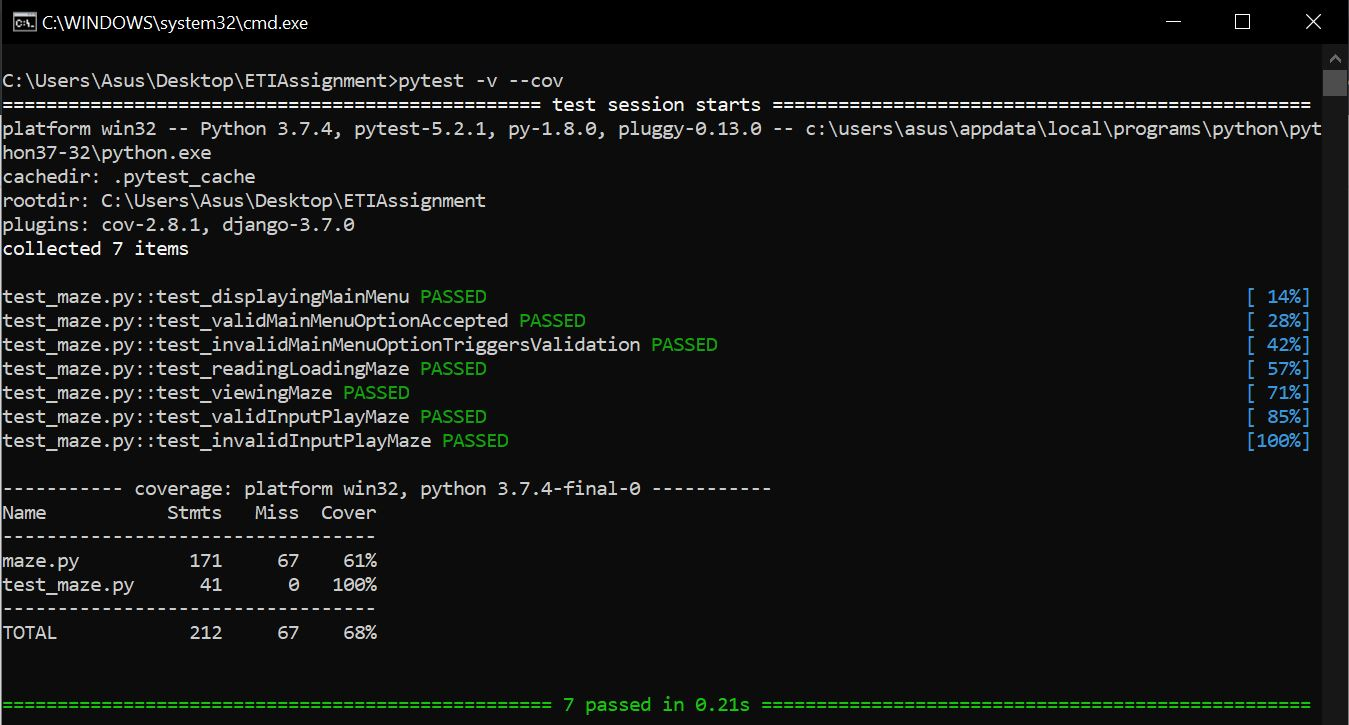
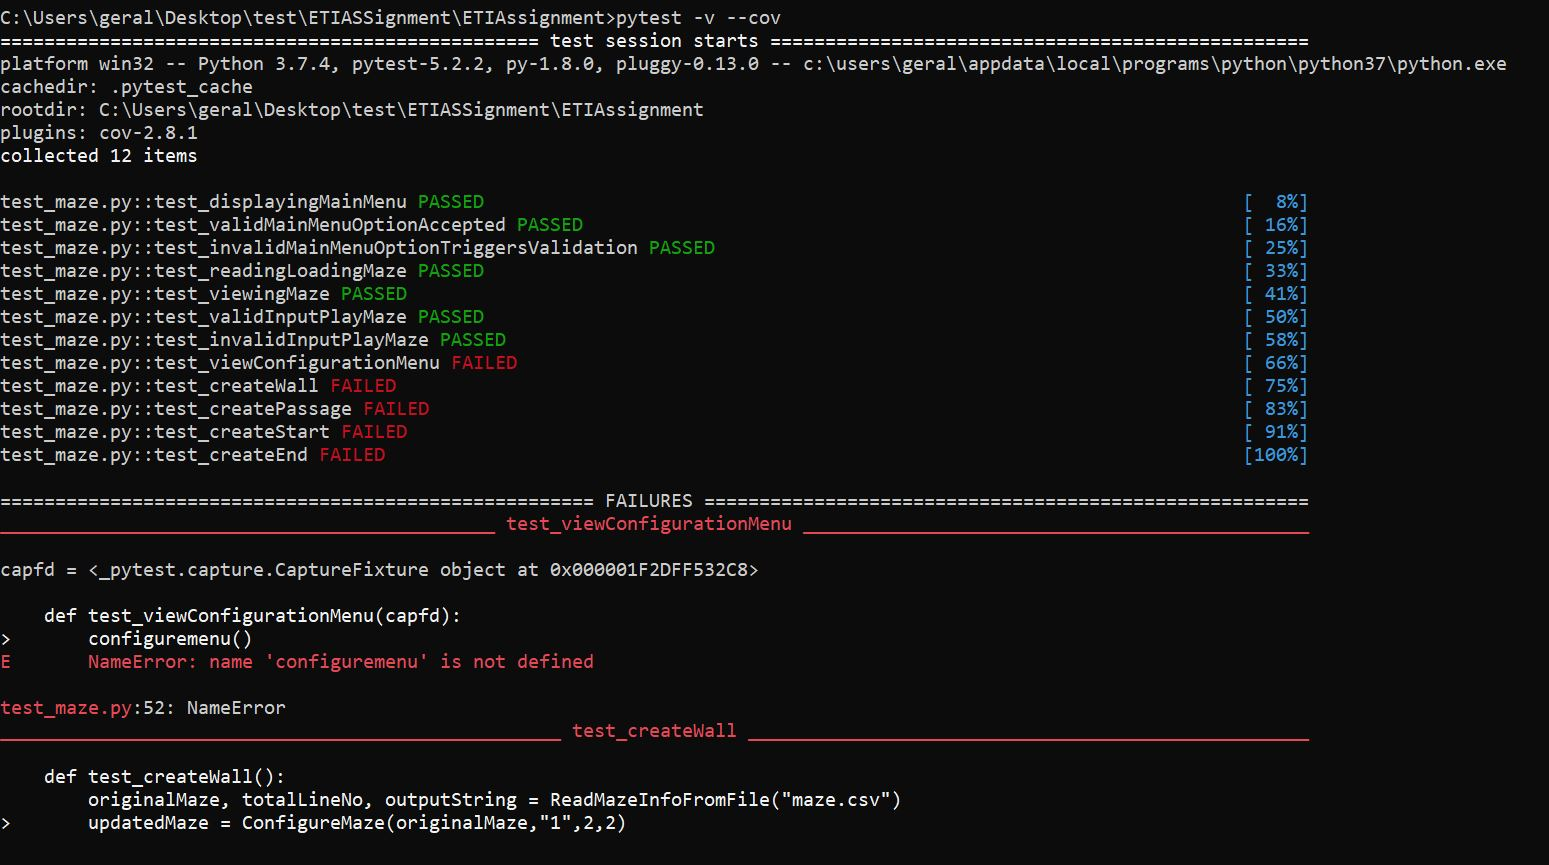
#2 Commited test scripts, test outputs and test case for configure maze

diff --git a/test_maze.py b/test_maze.py
@@ -47,5 +47,35 @@ def test_invalidInputPlayMaze():
     outputString, updatedMaze = movementKeySelection(maze, "TEST")
     assert "Invalid input. Please try again." in outputString
     assert maze == updatedMaze
+
+def test_viewConfigurationMenu(capfd):
+    configuremenu()
+    out, err = capfd.readouterr()
+    assert "[1] Create Wall" in out
+
+def test_createWall():
+    originalMaze, totalLineNo, outputString = ReadMazeInfoFromFile("maze.csv")
+    updatedMaze = ConfigureMaze(originalMaze,"1",2,2)
+    configuredMaze, totalLineNo, outputString = ReadMazeInfoFromFile("mazeconfigured.csv")
+    assert configuredMaze[1][1] == "X"
+
+def test_createPassage():
+    originalMaze, totalLineNo, outputString = ReadMazeInfoFromFile("maze.csv")
+    updatedMaze = ConfigureMaze(originalMaze,"2",3,2)
+    configuredMaze, totalLineNo, outputString = ReadMazeInfoFromFile("mazeconfigured.csv")
+    assert configuredMaze[2][1] == "O"
     
+def test_createStart():
+    originalMaze, totalLineNo, outputString = ReadMazeInfoFromFile("maze.csv")
+    updatedMaze = ConfigureMaze(originalMaze,"3",1,7)
+    configuredMaze, totalLineNo, outputString = ReadMazeInfoFromFile("mazeconfigured.csv")
+    assert configuredMaze[0][6] == "A"
+    
+def test_createEnd():
+    originalMaze, totalLineNo, outputString = ReadMazeInfoFromFile("maze.csv")
+    updatedMaze = ConfigureMaze(originalMaze,"4",8,3)
+    configuredMaze, totalLineNo, outputString = ReadMazeInfoFromFile("mazeconfigured.csv")
+    assert configuredMaze[7][2] == "B"
+
+
 
